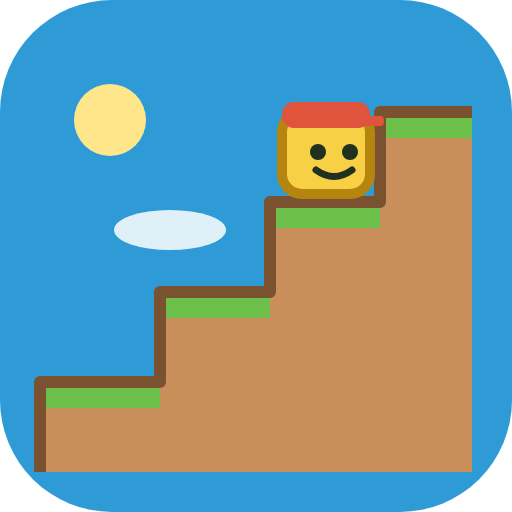
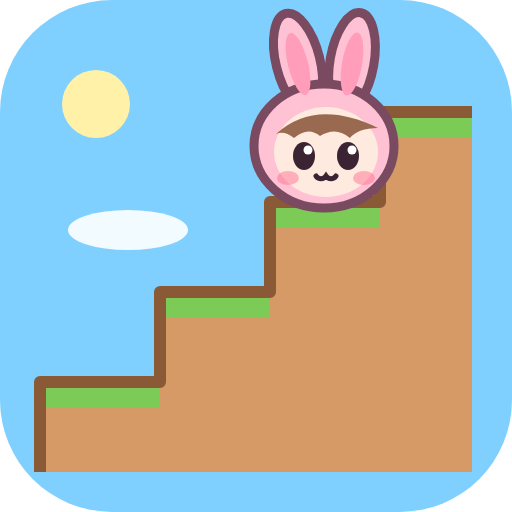
계단: 캐릭터를 토끼 귀 후드 꼬마로(큰 눈·ω 입·꼬리, 뛸 때 귀 펄럭, 눈 깜빡임), 아이콘도 변경

diff --git a/계단/index.html b/계단/index.html
@@ -228,12 +228,12 @@ body:has(.modal-bg:not([hidden])) main,body:has(.overlay:not([hidden])) main{ove
 <script>
 (function(){
 'use strict';
-var VERSION='11.16-1';
+var VERSION='11.16-2';
 var $=function(id){return document.getElementById(id);};
 function store(k,v){try{if(v===undefined)return JSON.parse(localStorage.getItem(k)||'null');localStorage.setItem(k,JSON.stringify(v));}catch(e){return null;}}
 function reduced(){return matchMedia('(prefers-reduced-motion: reduce)').matches;}
 
-$('logo').innerHTML='<svg viewBox="0 0 512 512" aria-hidden="true"><rect width="512" height="512" rx="112" fill="#2E9BD6"/><path d="M60 452h110v-90h110v-90h110v-90h62v270H60z" fill="#58B030"/><path d="M60 452h110v-90h110v-90h110v-90h62" fill="none" stroke="#3E871C" stroke-width="16" stroke-linejoin="round"/><rect x="292" y="70" width="120" height="110" rx="24" fill="#F7D046" stroke="#B5850F" stroke-width="12"/><circle cx="335" cy="120" r="11" fill="#22301F"/><circle cx="378" cy="120" r="11" fill="#22301F"/><path d="M332 146q20 16 40 0" stroke="#22301F" stroke-width="9" fill="none" stroke-linecap="round"/></svg>';
+$('logo').innerHTML='<svg aria-hidden="true" viewBox="0 0 512 512"><rect width="512" height="512" rx="112" fill="#7FD0FF"/><circle cx="96" cy="104" r="34" fill="#FFF1A8"/><ellipse cx="128" cy="230" rx="60" ry="20" fill="#fff" fill-opacity=".9"/><path d="M40 472V382h120v-90h110v-90h110v-90h92V472z" fill="#D59A66"/><path d="M40 382h120v26H40zM160 292h110v26H160zM270 202h110v26H270zM380 112h92v26h-92z" fill="#7CCB57"/><path d="M40 472V382h120v-90h110v-90h110v-90h92" fill="none" stroke="#8A5A36" stroke-width="12" stroke-linejoin="round"/><g stroke="#7A4A60" stroke-width="9"><ellipse cx="298" cy="62" rx="22" ry="50" transform="rotate(-14 298 62)" fill="#FFC2D4"/><ellipse cx="352" cy="62" rx="22" ry="50" transform="rotate(10 352 62)" fill="#FFC2D4"/><ellipse cx="324" cy="146" rx="70" ry="62" fill="#FFC2D4"/></g><ellipse cx="298" cy="64" rx="10" ry="32" transform="rotate(-14 298 64)" fill="#FF9DBB"/><ellipse cx="352" cy="64" rx="10" ry="32" transform="rotate(10 352 64)" fill="#FF9DBB"/><ellipse cx="326" cy="152" rx="52" ry="45" fill="#FFEADF"/><path d="M276 134q40-36 102-6q-20 0-28 10q-14-12-30-2q-12-10-26 2q-10-8-18-4z" fill="#9A6A50"/><ellipse cx="304" cy="156" rx="11" ry="14" fill="#3A2433"/><ellipse cx="348" cy="156" rx="11" ry="14" fill="#3A2433"/><circle cx="308" cy="150" r="4.5" fill="#fff"/><circle cx="352" cy="150" r="4.5" fill="#fff"/><path d="M316 176a6 6 0 0 0 10 0a6 6 0 0 0 10 0" fill="none" stroke="#3A2433" stroke-width="5" stroke-linecap="round"/><ellipse cx="288" cy="178" rx="11" ry="7" fill="#FF698C" fill-opacity=".45"/><ellipse cx="364" cy="178" rx="11" ry="7" fill="#FF698C" fill-opacity=".45"/></svg>';
 $('verLine').textContent='솔솔놀이(계단) · 버전 '+VERSION;
 
 // ---------- 상태 ----------
@@ -412,27 +412,47 @@ function draw(){
   else{var e=R.hop,ease=1-(1-e)*(1-e);px=R.hopFrom+(R.stairs[R.p]-R.hopFrom)*ease;py=R.p-1+ease+Math.sin(e*Math.PI)*.35;if(R.hop>=1&&R.p===0){px=0;py=0;}}
   drawKid(cx+(px-R.camX)*W,baseY-(py-R.camY)*H,W,rot);
 }
+// 솔솔이: 토끼 귀 후드를 쓴 꼬마(2등신). 오른쪽을 보고 그린 뒤 face 로 뒤집는다. 발끝이 (0,0)
+function ell(x,y,rx,ry,r){ctx.beginPath();ctx.ellipse(x,y,rx,ry,r||0,0,Math.PI*2);}
 function drawKid(x,y,W,rot){
-  var s=W/60,f=R.face,step=R.p%2,idle=R.started?0:Math.sin(clock*4)*1.5;
+  var s=W/48,f=R.face,step=R.p%2,t=clock,idle=R.started?0:Math.sin(t*4)*1.5,flap=R.hop<1?Math.sin(R.hop*Math.PI):0;
+  var PINK='#FFC2D4',DEEP='#FF9DBB',OL='#7A4A60';
   ctx.save();ctx.translate(x,y);ctx.rotate(rot);ctx.scale(f*s,s);ctx.translate(0,idle);
-  ctx.lineJoin='round';ctx.lineCap='round';
-  // 다리
-  ctx.fillStyle='#3B4A7A';var a=step?4:-4;roundRect(-11+a,-18,9,18,3);ctx.fill();roundRect(2-a,-18,9,18,3);ctx.fill();
-  ctx.fillStyle='#22301F';roundRect(-13+a,-5,13,6,3);ctx.fill();roundRect(1-a,-5,13,6,3);ctx.fill();
-  // 가방(등쪽)
-  ctx.fillStyle='#E0533D';roundRect(-24,-46,13,24,5);ctx.fill();ctx.fillStyle='#AE3826';ctx.fillRect(-24,-36,13,3);
-  // 몸
-  ctx.fillStyle='#2E9BD6';roundRect(-15,-48,30,32,8);ctx.fill();
-  ctx.fillStyle='#F7D046';var sw=step?-3:3;roundRect(8,-44+sw,8,18,4);ctx.fill();   // 앞팔
-  // 머리
-  ctx.fillStyle='#F7D046';ctx.strokeStyle='#B5850F';ctx.lineWidth=3;roundRect(-19,-84,38,36,10);ctx.fill();ctx.stroke();
-  // 모자
-  ctx.fillStyle='#E0533D';roundRect(-19,-88,38,12,6);ctx.fill();ctx.fillRect(10,-80,14,5);
-  // 얼굴(앞쪽)
-  ctx.fillStyle='#22301F';
-  if(R.fall){ctx.lineWidth=2.5;ctx.strokeStyle='#22301F';[0,13].forEach(function(o){ctx.beginPath();ctx.moveTo(o-3,-70);ctx.lineTo(o+3,-64);ctx.moveTo(o+3,-70);ctx.lineTo(o-3,-64);ctx.stroke();});ctx.beginPath();ctx.arc(7,-56,3.5,0,7);ctx.stroke();}
-  else{ctx.beginPath();ctx.arc(1,-67,3.2,0,7);ctx.arc(13,-67,3.2,0,7);ctx.fill();ctx.lineWidth=2.5;ctx.strokeStyle='#22301F';ctx.beginPath();ctx.arc(7,-60,5,.2,Math.PI-.2);ctx.stroke();
-    ctx.fillStyle='rgba(255,120,120,.5)';ctx.beginPath();ctx.arc(-6,-59,3.5,0,7);ctx.arc(17,-59,3,0,7);ctx.fill();}
+  ctx.lineJoin='round';ctx.lineCap='round';ctx.lineWidth=2.6;ctx.strokeStyle=OL;
+  // 발(번갈아 앞으로)
+  var a=step?3:-3;ctx.fillStyle='#FF8FB1';
+  ell(-6+a,-4,6.5,4.5);ctx.fill();ctx.stroke();ell(7-a,-4,6.5,4.5);ctx.fill();ctx.stroke();
+  // 동그란 꼬리(등쪽)
+  ctx.fillStyle='#fff';ell(-14,-15,5.5,5.5);ctx.fill();ctx.stroke();
+  // 몸(후드티)
+  ctx.fillStyle=PINK;ctx.beginPath();ctx.moveTo(-13,-6);ctx.quadraticCurveTo(-15,-31,0,-31);ctx.quadraticCurveTo(15,-31,13,-6);ctx.quadraticCurveTo(0,-2,-13,-6);ctx.closePath();ctx.fill();ctx.stroke();
+  ctx.fillStyle='#FFE6EE';ell(2,-15,6.5,5.5);ctx.fill();
+  ctx.fillStyle='#FFD166';ctx.beginPath();for(var k=0;k<10;k++){var an=-Math.PI/2+k*Math.PI/5,rr=k%2?1.6:3.6;ctx.lineTo(2+Math.cos(an)*rr,-15+Math.sin(an)*rr);}ctx.closePath();ctx.fill();   // 배에 별
+  // 팔
+  var sw=step?-2:2;ctx.fillStyle=PINK;ell(11,-19+sw,4,5.5,-.5);ctx.fill();ctx.stroke();
+  // 긴 귀: 뒤로 살짝 눕고, 뛸 때 펄럭
+  var ea=-.22-flap*.4;
+  [[-7,-.18],[5,.1]].forEach(function(e){ctx.save();ctx.translate(e[0],-66);ctx.rotate(ea+e[1]);
+    ctx.fillStyle=PINK;ell(0,-13,6.5,15);ctx.fill();ctx.stroke();ctx.fillStyle=DEEP;ell(0,-12,3.2,10);ctx.fill();ctx.restore();});
+  // 머리(후드)
+  ctx.fillStyle=PINK;ell(0,-49,22,20);ctx.fill();ctx.stroke();
+  // 얼굴
+  ctx.fillStyle='#FFEADF';ell(4,-47,16,14.5);ctx.fill();
+  // 앞머리
+  ctx.fillStyle='#9A6A50';ctx.beginPath();ctx.moveTo(-11,-52);ctx.quadraticCurveTo(-2,-65,19,-55);ctx.quadraticCurveTo(12,-55,10,-52);ctx.quadraticCurveTo(6,-56,0,-52);ctx.quadraticCurveTo(-4,-55,-11,-50);ctx.closePath();ctx.fill();
+  // 눈
+  ctx.fillStyle='#3A2433';ctx.strokeStyle='#3A2433';ctx.lineWidth=2.2;
+  if(R.fall){[1,13].forEach(function(o,k){var d=k?-1:1;ctx.beginPath();ctx.moveTo(o-3*d,-49.5);ctx.lineTo(o+2*d,-46.5);ctx.lineTo(o-3*d,-43.5);ctx.stroke();});
+    ctx.fillStyle='#C2405F';ell(7,-38.5,2.6,3.2);ctx.fill();}
+  else{
+    if(t%3.4<.13){[1,13].forEach(function(o){ctx.beginPath();ctx.moveTo(o-3,-46);ctx.quadraticCurveTo(o,-44,o+3,-46);ctx.stroke();});}
+    else{ell(1,-46.5,3.5,4.6);ctx.fill();ell(13,-46.5,3.5,4.6);ctx.fill();
+      ctx.fillStyle='#fff';ell(2.3,-48.3,1.4,1.7);ctx.fill();ell(14.3,-48.3,1.4,1.7);ctx.fill();ell(.2,-44.3,.7,.7);ctx.fill();ell(12.2,-44.3,.7,.7);ctx.fill();}
+    // 입(ω)
+    ctx.lineWidth=1.7;ctx.beginPath();ctx.arc(5.4,-40.6,1.7,0,Math.PI);ctx.moveTo(10.4,-40.6);ctx.arc(8.7,-40.6,1.7,0,Math.PI);ctx.stroke();
+  }
+  // 볼
+  ctx.fillStyle='rgba(255,105,140,.45)';ell(-3.5,-40.5,3.8,2.5);ctx.fill();ell(18,-40.5,3,2.3);ctx.fill();
   ctx.restore();
 }
 requestAnimationFrame(frame);

diff --git a/계단/sw.js b/계단/sw.js
@@ -1,6 +1,6 @@
 // 앱 껍데기 캐시: 화면은 네트워크 우선(새 버전 바로 반영), 안 되면 캐시로 오프라인 플레이
 // 다른 게임과 같은 주소(origin)라 캐시 저장소를 함께 쓴다. 지울 때는 자기 이름(solsol-stairs-)으로 시작하는 것만 지운다
-const CACHE = 'solsol-stairs-v1';
+const CACHE = 'solsol-stairs-v2';
 const SHELL = ['./', './index.html', './manifest.webmanifest', './icon.svg', './icon-512.png'];
 
 self.addEventListener('install', (e) => {

diff --git a/계단/CLAUDE.md b/계단/CLAUDE.md
@@ -1,6 +1,6 @@
 # 솔솔놀이(계단) 메모
 
-- 한 파일 앱: index.html(캔버스 2D) + sw.js + manifest. 그림은 전부 직접 그린 것(솔솔이: 노란 네모 머리, 빨간 모자, 파란 옷, 빨간 가방). 다른 회사 게임의 이름·캐릭터·그림은 쓰지 않는다.
+- 한 파일 앱: index.html(캔버스 2D) + sw.js + manifest. 그림은 전부 직접 그린 것(솔솔이: 토끼 귀 후드를 쓴 2등신 꼬마, 분홍 후드티, 큰 눈, ω 입, 동그란 꼬리. 뛸 때 귀가 펄럭이고 가끔 눈을 깜빡임). 다른 회사 게임의 이름·캐릭터·그림은 쓰지 않는다.
 - 상태 `R`: `stairs[i]`는 i번째 계단의 칸. `p`는 지금 계단, `face`는 1이거나 -1. `act(turn)`은 turn이면 face를 뒤집고, 다음 계단 방향이 face와 다르면 `die('miss')`.
 - 계단 생성 `ensure(n)`: 처음 5칸은 곧게. 그 뒤로는 꺾일 확률이 .3에서 .55로 오르고, 6칸 넘게 곧게 가지는 않는다. 코인은 10% 확률.
 - 시간 막대 `drain()`은 .15 + p×.0011(최대 .65)/초이고, 한 칸에 +.075, 코인은 +.06을 더 채운다. `tickGauge()`는 그리기(rAF)와 setInterval(100ms) 양쪽에서 불러서 그리기가 느려도 정확하다.
